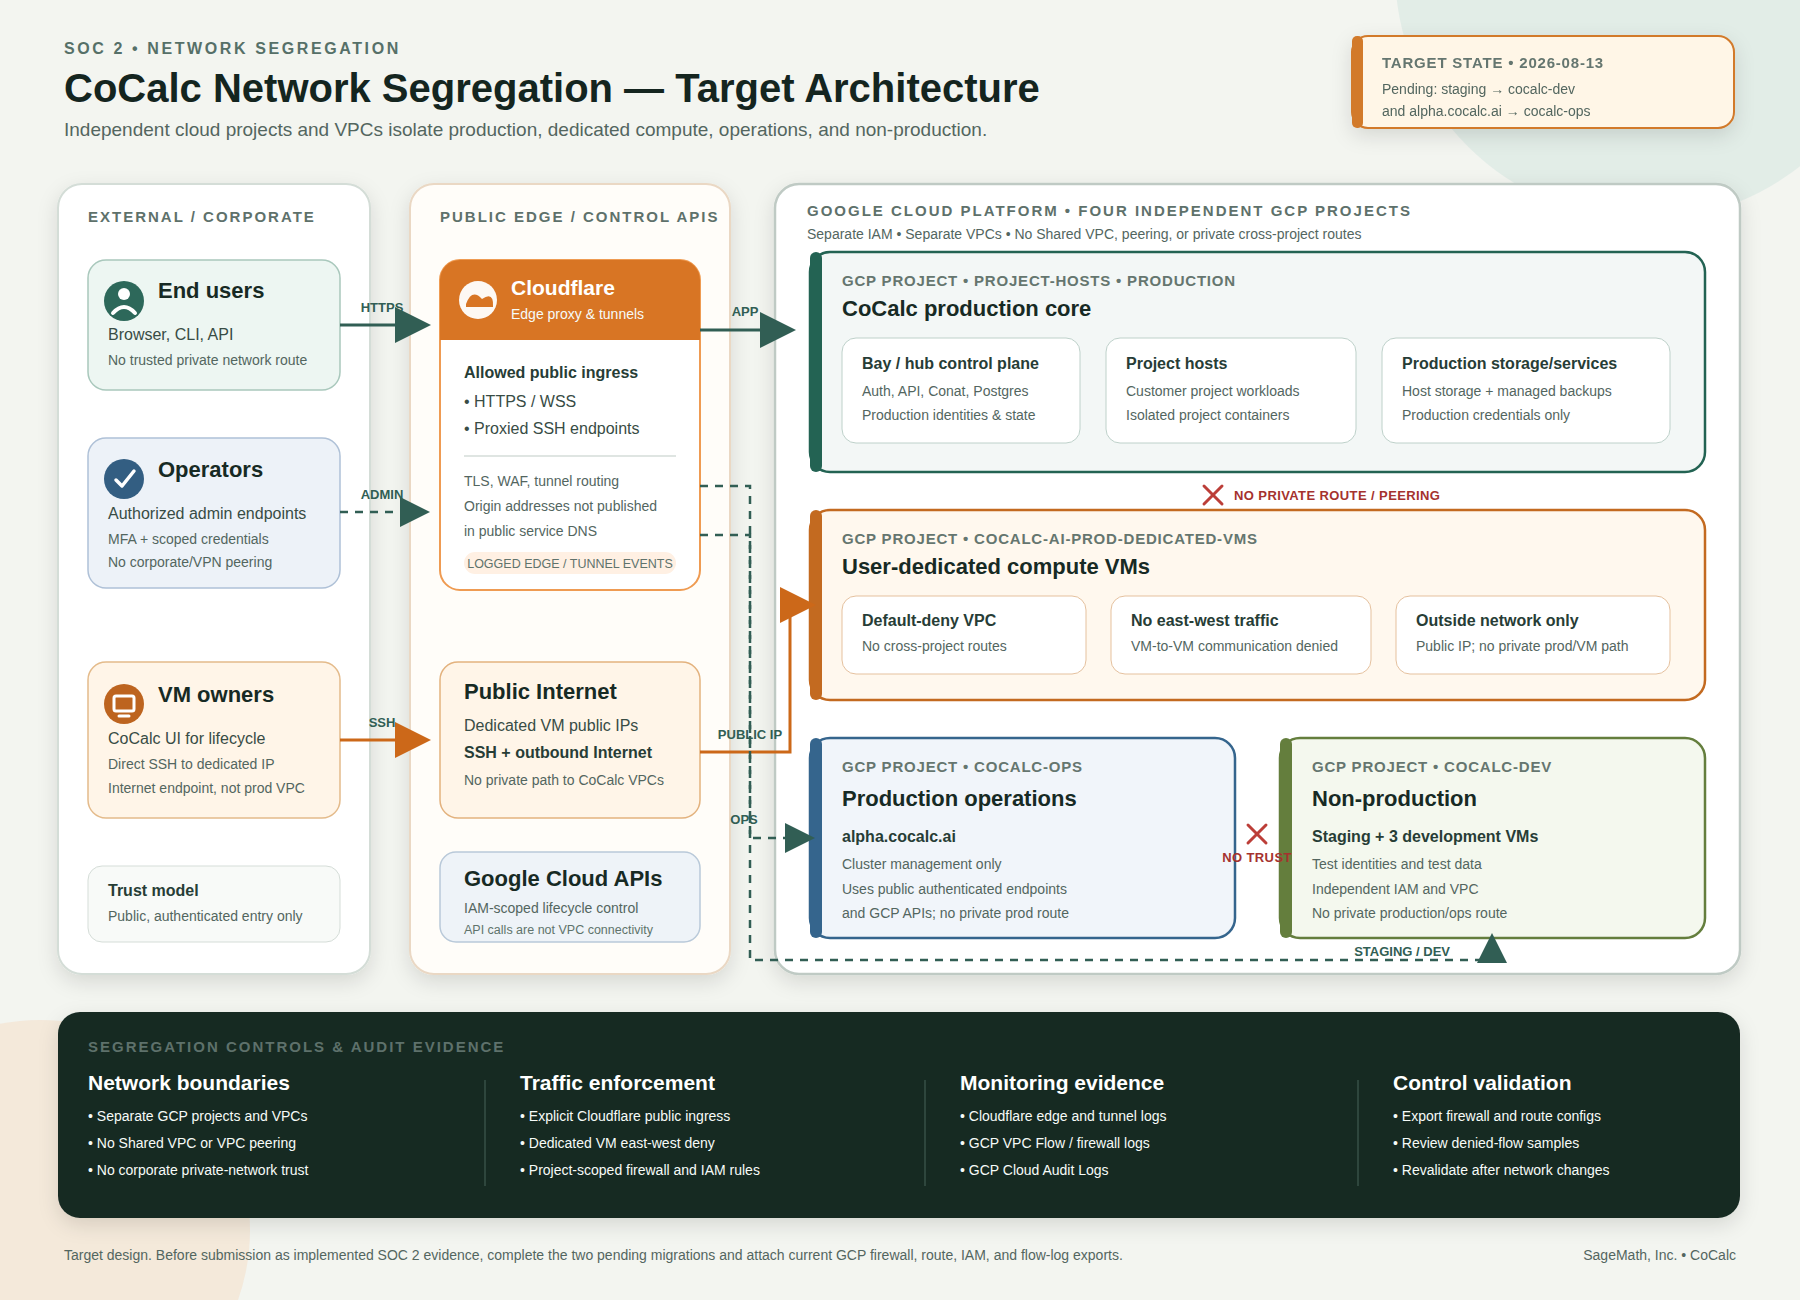
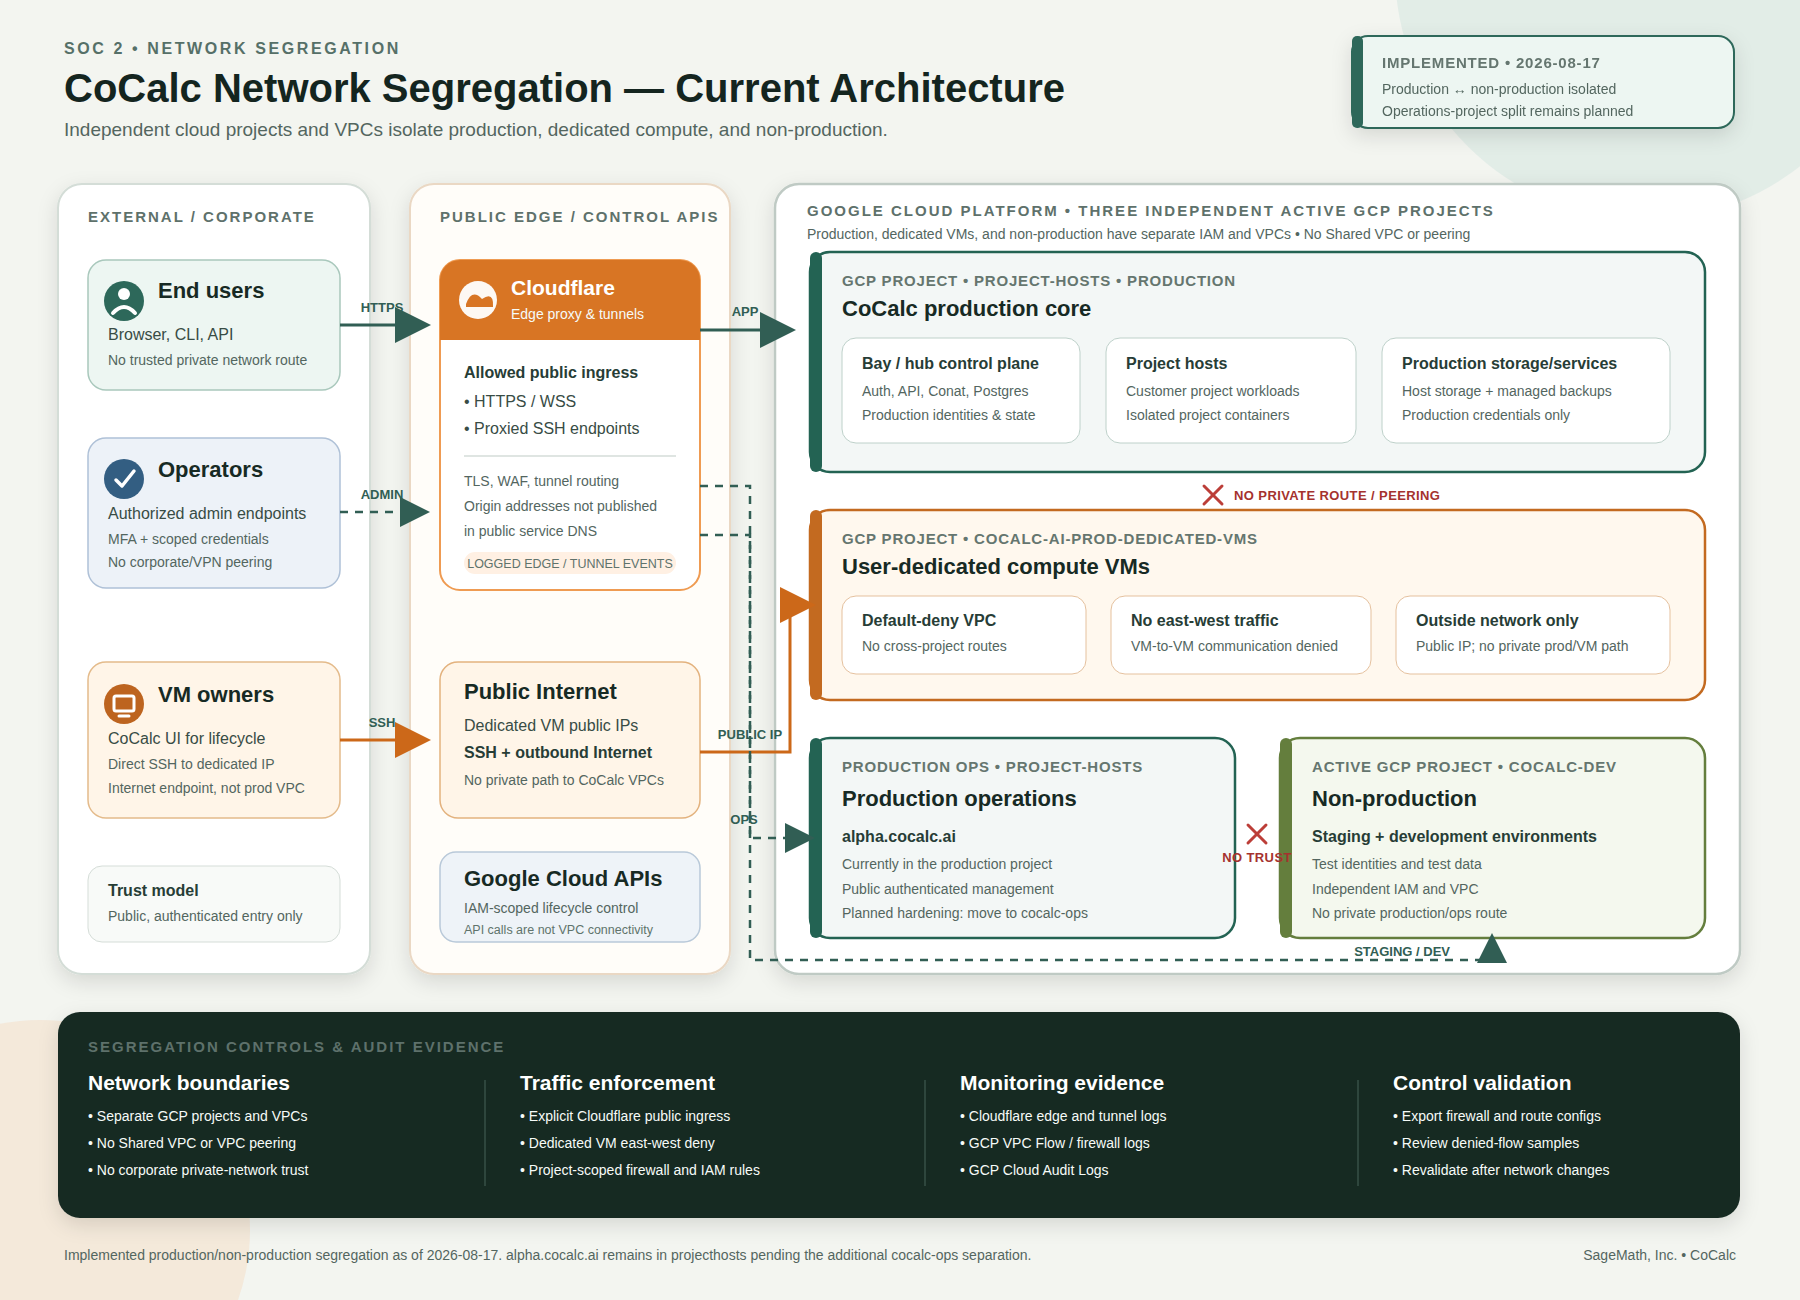
docs/security: update network segregation evidence
Record the implemented separation of active staging and development workloads into cocalc-dev, while accurately retaining alpha.cocalc.ai in projecthosts until the planned cocalc-ops migration.

Document the terminated staging rollback VM, service-account cleanup, and supporting evidence expectations. Regenerate the Vanta-ready PNG from the validated SVG source.

diff --git a/docs/security/evidence/network-segregation-target.md b/docs/security/evidence/network-segregation-target.md
@@ -1,27 +1,30 @@
-# CoCalc Network Segregation Target Architecture
+# CoCalc Network Segregation Current Architecture
 
-**Document date:** 2026-08-13
+**Document date:** 2026-08-17
 
-**Status:** Target architecture; not yet implementation evidence
+**Status:** Implemented production/non-production segregation; additional
+production-operations separation remains planned
 
-![CoCalc target network segregation architecture](./network-segregation-target.png)
+![CoCalc current network segregation architecture](./network-segregation-target.png)
 
 ## Scope
 
-This diagram documents the intended segregation among four independent Google
-Cloud projects and their VPC networks:
+This diagram documents the current segregation among three active independent
+Google Cloud projects and their VPC networks. It also records the planned
+additional separation of production operations into `cocalc-ops`.
 
-| Environment                | GCP project                    | Intended contents                                                                                                                  |
+| Environment                | GCP project                    | Current contents and status                                                                                                        |
 | -------------------------- | ------------------------------ | ---------------------------------------------------------------------------------------------------------------------------------- |
-| Production core            | `project-hosts`                | Production bay/hub, Postgres, project hosts, and production services                                                               |
+| Production core            | `project-hosts`                | Production bay/hub, Postgres, project hosts, production services, and currently `alpha.cocalc.ai` operations tooling               |
 | Dedicated customer compute | `cocalc-ai-prod-dedicated-vms` | User-dedicated VMs with public Internet connectivity, no private path to CoCalc production, and no VM-to-VM east-west connectivity |
-| Production operations      | `cocalc-ops`                   | `alpha.cocalc.ai` and production cluster management tooling                                                                        |
-| Non-production             | `cocalc-dev`                   | Staging and three development environments                                                                                         |
+| Non-production             | `cocalc-dev`                   | Staging and development environments, with independent IAM and VPC networking                                                      |
+| Production operations      | `cocalc-ops`                   | Planned destination for `alpha.cocalc.ai`; this project separation is not implemented yet                                          |
 
-The target architecture does not use Shared VPC, VPC peering, private routing,
-or corporate-network trust between these projects. GCP API calls authorized by
+The three active projects do not use Shared VPC, VPC peering, private routing,
+or corporate-network trust between them. GCP API calls authorized by
 project-scoped IAM control infrastructure lifecycle; they do not establish VPC
-connectivity.
+connectivity. Production operations currently share the `project-hosts`
+project and are therefore not represented as a separate network boundary.
 
 ## Allowed Network Flows
 
@@ -37,21 +40,33 @@ All private cross-project paths are denied by absence of routes/peering and by
 project firewall policy. The dedicated-VM VPC additionally denies east-west
 traffic between VMs.
 
-## Migration Status
+## Implementation Status
 
-As of the document date:
+As of the document date, production and non-production are operationally
+segregated:
 
-- staging still needs to move from the production `project-hosts` project to
+- the active staging bay, staging project host, and development VMs run in
   `cocalc-dev`;
-- `alpha.cocalc.ai` still needs to move from `project-hosts` to `cocalc-ops`.
+- staging and development use service accounts in `cocalc-dev`; the former
+  staging/development-specific service accounts in `project-hosts` have been
+  deleted;
+- no active staging or development workload runs in the production VPC;
+- the former `projecthosts/staging-bay-0` VM is terminated and
+  deletion-protected for a short rollback window. It does not receive staging
+  traffic and should be deleted with its obsolete ingress resources after the
+  rollback window;
+- `alpha.cocalc.ai` still runs in `project-hosts`. Moving it to a new
+  `cocalc-ops` project remains a planned defense-in-depth improvement, not a
+  completed boundary.
 
-This diagram is suitable as deployment/design evidence now. It should only be
-submitted to Vanta as evidence of the implemented architecture after both moves
-are complete and the controls below have been validated.
+This diagram is suitable as implementation evidence for segregation of
+production from development and staging. It deliberately does not claim that
+production operations have already moved to `cocalc-ops`.
 
-## Evidence To Attach After Implementation
+## Supporting Evidence To Attach
 
-1. GCP project and VPC inventory showing the four independent projects.
+1. GCP project and VPC inventory showing the three active independent projects,
+   plus `cocalc-ops` after that planned project is provisioned.
 2. Route and VPC-peering exports showing no cross-project private routes,
    Shared VPC, or peering.
 3. Firewall exports for each VPC, including the dedicated-VM east-west deny
@@ -62,7 +77,11 @@ are complete and the controls below have been validated.
    the expected allowed and denied flows.
 6. Cloudflare tunnel/DNS configuration and recent edge or tunnel logs for
    production and operations ingress.
-7. A dated validation note confirming staging and `alpha.cocalc.ai` are in their
-   target projects.
+7. A dated validation note confirming active staging and development workloads
+   are in `cocalc-dev`, along with the terminated state of the retained staging
+   rollback VM.
+8. After the operations migration, an updated inventory confirming
+   `alpha.cocalc.ai` is in `cocalc-ops` and obsolete `projecthosts` rollback
+   resources have been removed.
 
 The SVG is the editable source. The PNG is intended for direct upload to Vanta.
